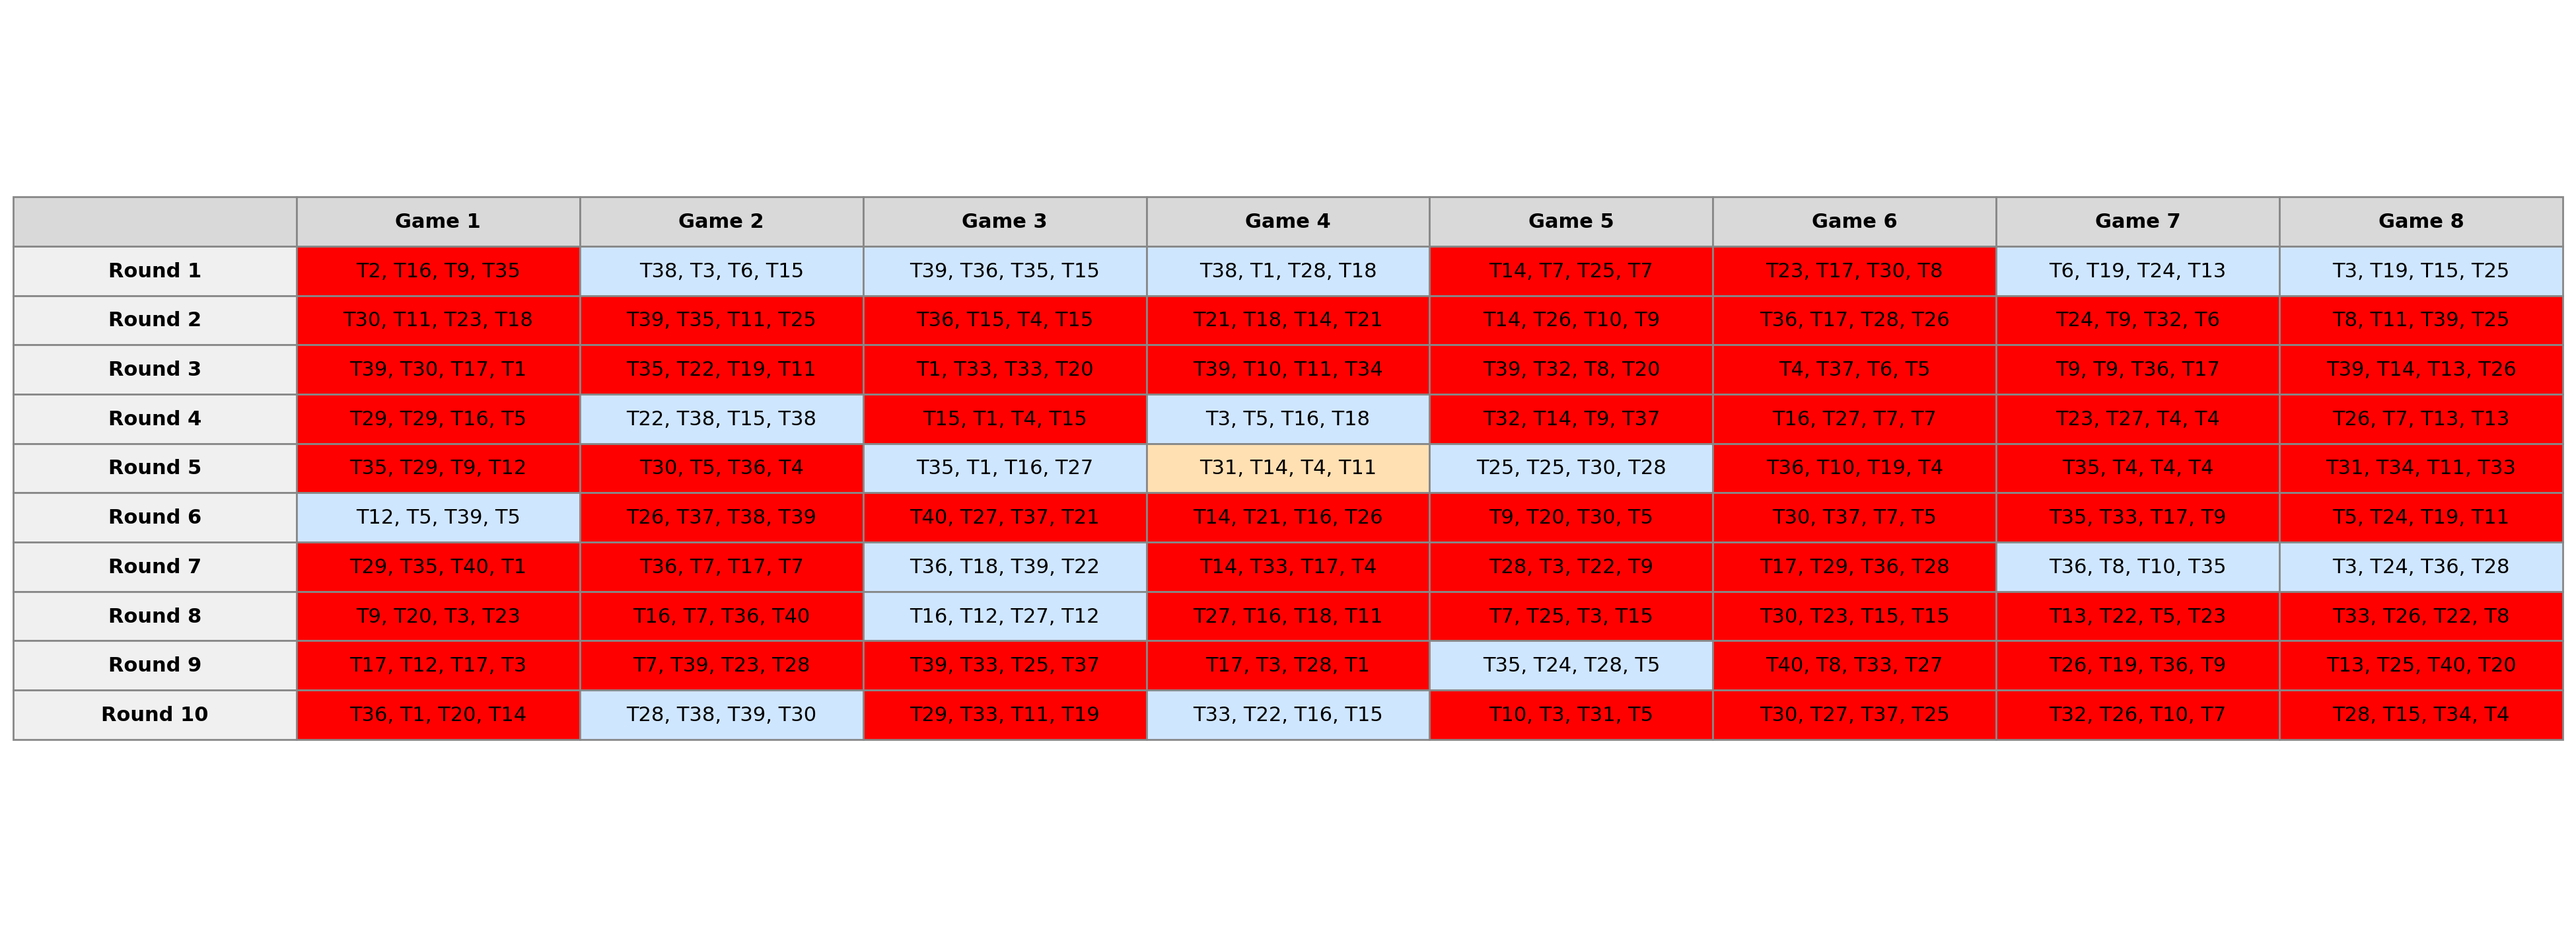
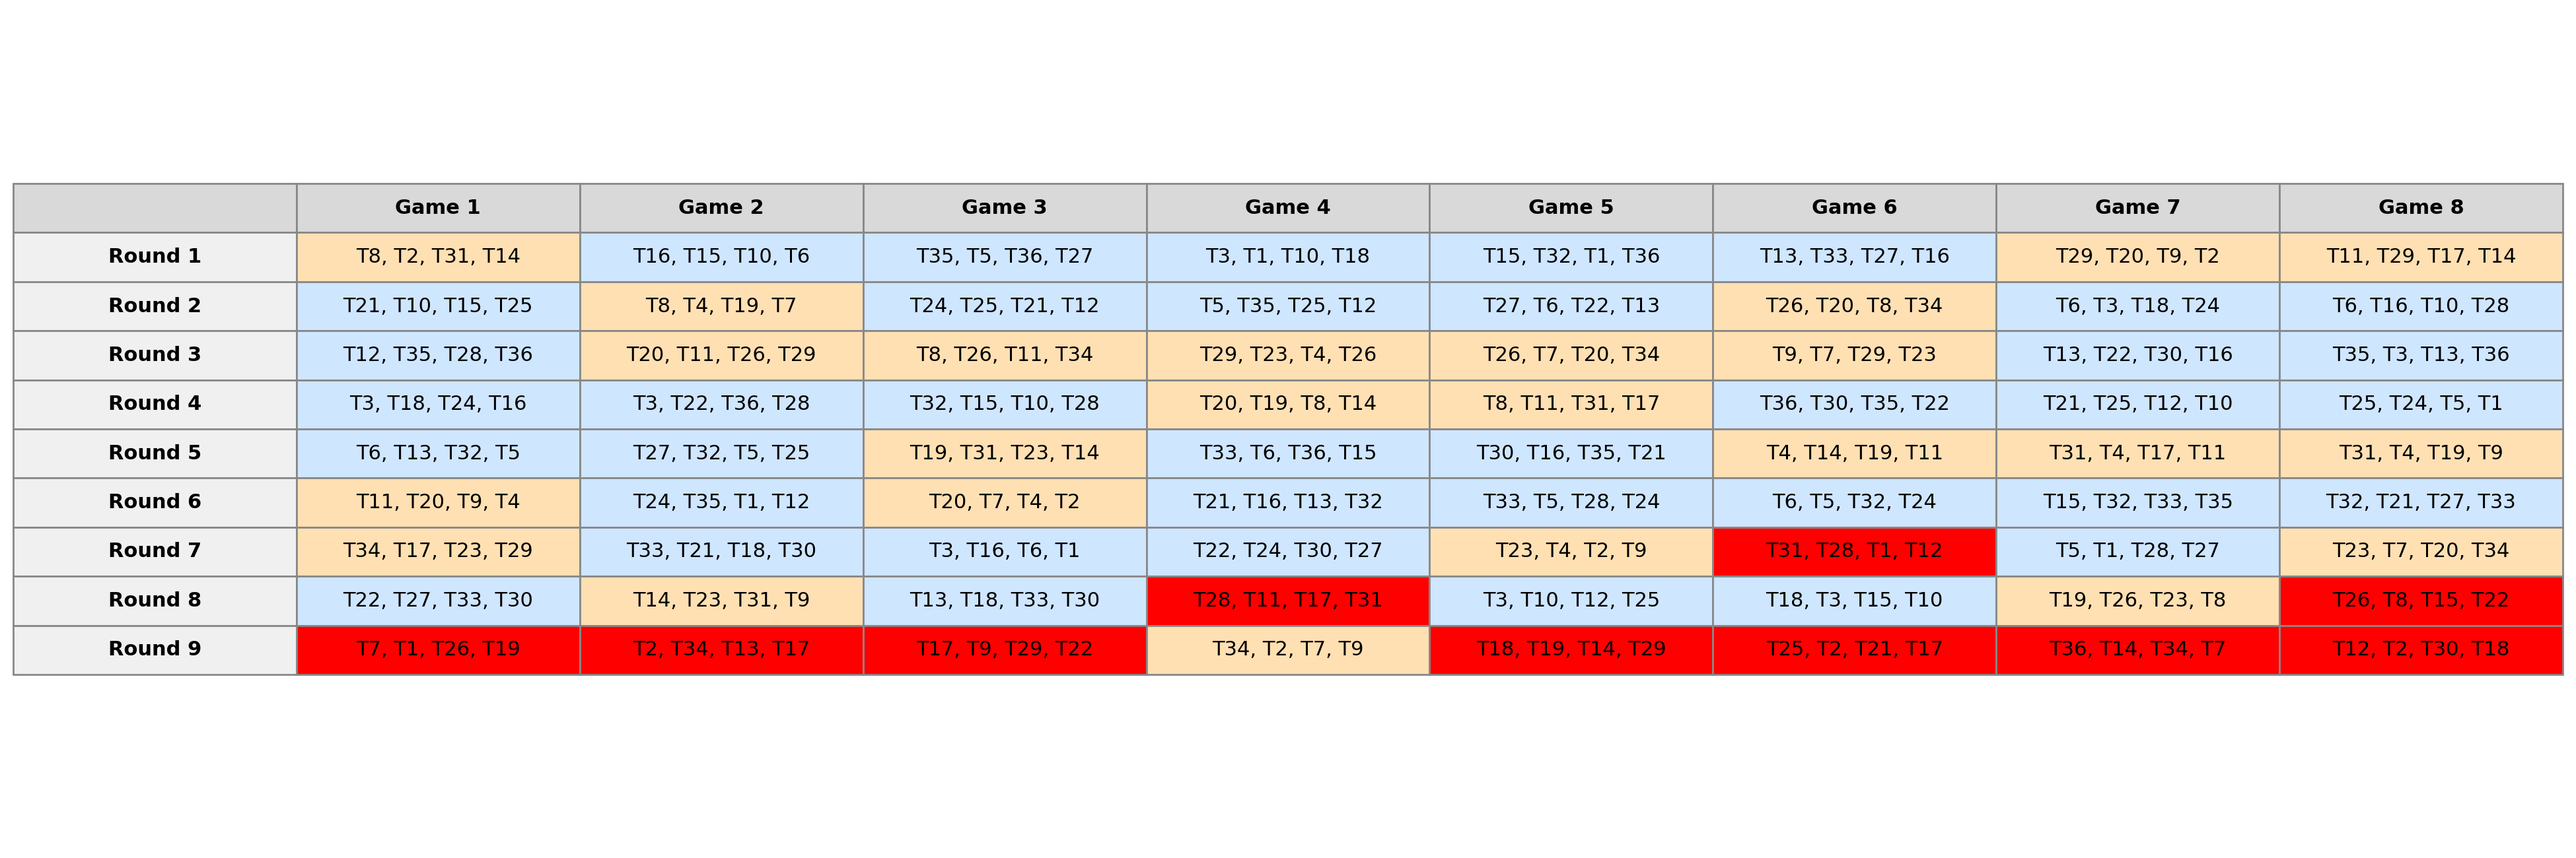
feat: ugliest code I've written in my life but it works, grouping teams by age when possible now

diff --git a/generate_schema.py b/generate_schema.py
@@ -9,7 +9,7 @@ TEAMS = [
     ("Team 5", "adult"),
     ("Team 6", "adult"),
     ("Team 7", "non-adult"),
-    ("Team 8", "adult"),
+    ("Team 8", "non-adult"),
     ("Team 9", "non-adult"),
     ("Team 10", "adult"),
     ("Team 11", "non-adult"),
@@ -20,7 +20,7 @@ TEAMS = [
     ("Team 16", "adult"),
     ("Team 17", "non-adult"),
     ("Team 18", "adult"),
-    ("Team 19", "adult"),
+    ("Team 19", "non-adult"),
     ("Team 20", "non-adult"),
     ("Team 21", "adult"),
     ("Team 22", "adult"),
@@ -38,10 +38,10 @@ TEAMS = [
     ("Team 34", "non-adult"),
     ("Team 35", "adult"),
     ("Team 36", "adult"),
-    ("Team 37", "non-adult"),
-    ("Team 38", "adult"),
-    ("Team 39", "adult"),
-    ("Team 40", "non-adult"),
+    #("Team 37", "non-adult"),
+    #("Team 38", "adult"),
+    #("Team 39", "adult"),
+    #("Team 40", "non-adult"),
 ]
 TEAMS_PER_GAME = 4
 SEED = 42
@@ -49,7 +49,7 @@ SEED = 42
 ADULT = "adult"
 NON_ADULT = "non-adult"
 
-games_seen_history = {game: {team: False for team, _ in TEAMS} for game in GAMES}
+games_seen_history = {game: {team: False for team in TEAMS} for game in GAMES}
 rng = random.Random(SEED)
 
 def build_schedule():
@@ -62,33 +62,59 @@ def build_schedule():
     for round in range(num_rounds):
         round_row = []
         for game in GAMES:
-            team_one = pick_team(game);
-            team_two = pick_team(game);
-            team_three = pick_team(game);
-            team_four = pick_team(game);
-
-            round_row.append([team_one, team_two, team_three, team_four])
+            round_row.append(pick_teams(game))
         rounds.append(round_row)
 
     return rounds
 
-def pick_team(game_name):
-    random_team = rng.choice(TEAMS);
-    if (games_seen_history[game_name][random_team[0]] == False):
-        random_team = rng.choice(TEAMS);
+def pick_teams(game_name):
+    available_teams = [team for team in games_seen_history[game_name].keys() if games_seen_history[game_name][team] == False]
 
-    games_seen_history[game_name][random_team[0]] = True
-    return random_team;
+    random_team_one = rng.choice(available_teams);
+    available_teams.remove(random_team_one);
+    games_seen_history[game_name][random_team_one] = True
+
+    team_age = random_team_one[1]
+    available_teams_same_age = [team for team in available_teams if team[1] == team_age]
+
+    if len(available_teams_same_age) == 3:
+        games_seen_history[game_name][available_teams_same_age[0]] = True
+        games_seen_history[game_name][available_teams_same_age[1]] = True
+        games_seen_history[game_name][available_teams_same_age[2]] = True
+        return [random_team_one, available_teams_same_age[0], available_teams_same_age[1], available_teams_same_age[2]]
+
+
+    if len(available_teams_same_age) > 3:
+        random_team_two = rng.choice(available_teams_same_age)
+        available_teams_same_age.remove(random_team_two)
+        random_team_three = rng.choice(available_teams_same_age)
+        available_teams_same_age.remove(random_team_three)
+        random_team_four = rng.choice(available_teams_same_age)
+        available_teams_same_age.remove(random_team_four)
+        games_seen_history[game_name][random_team_two] = True
+        games_seen_history[game_name][random_team_three] = True
+        games_seen_history[game_name][random_team_four] = True
+        return [random_team_one, random_team_two, random_team_three, random_team_four]
+
+    random_team_two = rng.choice(available_teams)
+    available_teams.remove(random_team_two)
+    random_team_three = rng.choice(available_teams)
+    available_teams.remove(random_team_three)
+    random_team_four = rng.choice(available_teams)
+    available_teams.remove(random_team_four)
+    games_seen_history[game_name][random_team_two] = True
+    games_seen_history[game_name][random_team_three] = True
+    games_seen_history[game_name][random_team_four] = True
+    return [random_team_one, random_team_two, random_team_three, random_team_four]
+
 
 def format_team(team):
-    print(team)
     name, _ = team
     return name.replace("Team ", "T")
 
 
 def cell_kind(teams):
     kinds = {kind for _, kind in teams}
-    print(kinds)
     if len(kinds) == 1:
         return next(iter(kinds))
     return "mixed"
@@ -111,7 +137,6 @@ def render_schedule(rounds, output_path="schema.png"):
     row_data = []
     cell_colors = []
     for i, round_row in enumerate(rounds, 1):
-        print(round_row)
         row = [f"Round {i}"] + [", ".join(format_team(t) for t in teams) for teams in round_row]
         colors = ["#f0f0f0"] + [KIND_COLORS[cell_kind(teams)] for teams in round_row]
         row_data.append(row)
